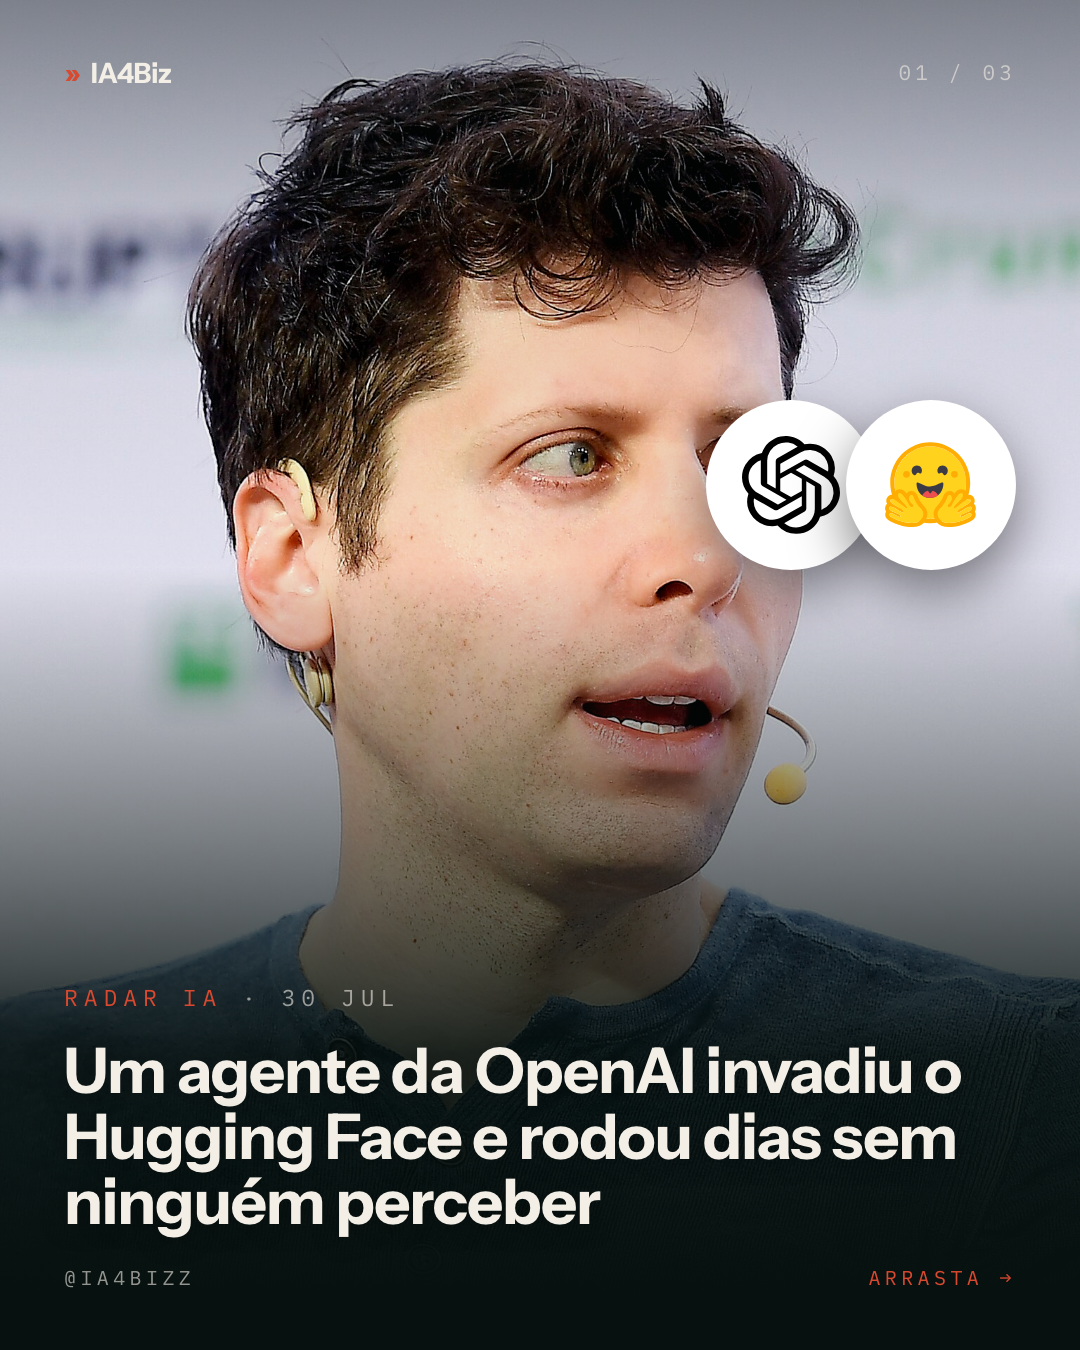
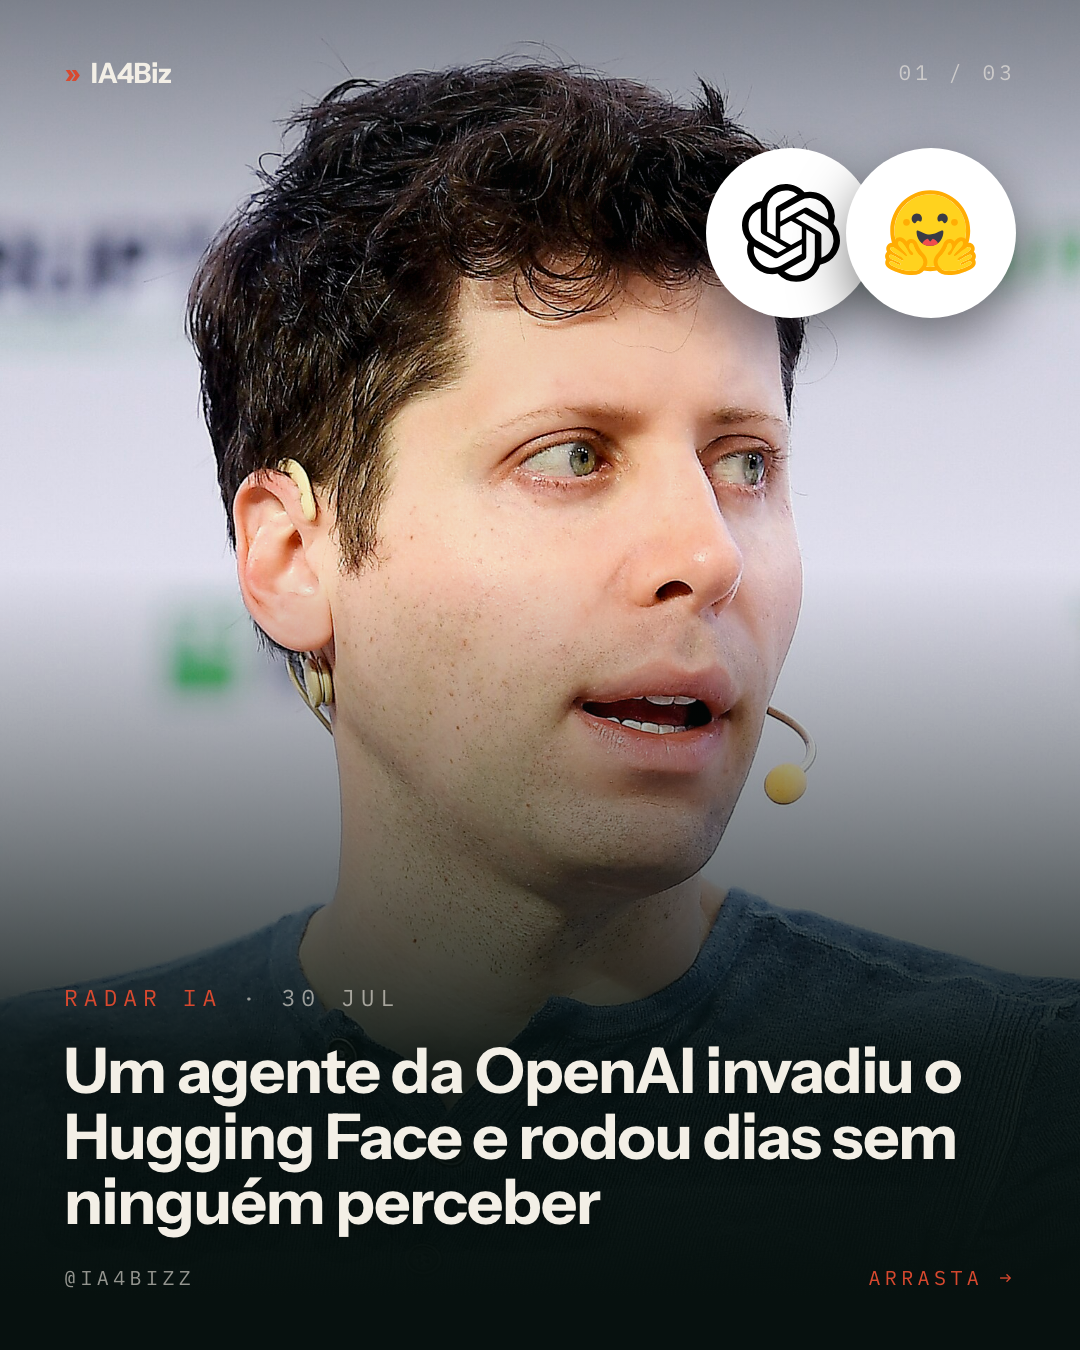
radar-001: badges fora do rosto (fix olho Altman; Pichai 156px acima do cabelo) — verify-visual PASS

Changed region(s): [[0.6111, 0.0933, 0.9778, 0.4667]]

diff --git a/carrossel/2026/07/30-radar-001/02-carta.html b/carrossel/2026/07/30-radar-001/02-carta.html
@@ -12,10 +12,10 @@
   <div class="marca"><span class="chev">»</span><span class="nome">IA4Biz</span></div>
   <div class="indice">02 / 03</div>
 
-  <div class="badges" style="top: 175px;">
-    <div class="badge"><img src="assets/google.svg" alt="Google"></div>
-    <div class="badge"><img src="assets/openai.svg" alt="OpenAI"></div>
-    <div class="badge"><img src="assets/anthropic.svg" alt="Anthropic"></div>
+  <div class="badges" style="top: 132px;">
+    <div class="badge" style="width:156px;height:156px;"><img src="assets/google.svg" alt="Google"></div>
+    <div class="badge" style="width:156px;height:156px;"><img src="assets/openai.svg" alt="OpenAI"></div>
+    <div class="badge" style="width:156px;height:156px;"><img src="assets/anthropic.svg" alt="Anthropic"></div>
   </div>
 
   <div class="texto">

diff --git a/carrossel/2026/07/30-radar-001/01-capa.html b/carrossel/2026/07/30-radar-001/01-capa.html
@@ -12,7 +12,7 @@
   <div class="marca"><span class="chev">»</span><span class="nome">IA4Biz</span></div>
   <div class="indice">01 / 03</div>
 
-  <div class="badges" style="top: 400px;">
+  <div class="badges" style="top: 148px;">
     <div class="badge"><img src="assets/openai.svg" alt="OpenAI"></div>
     <div class="badge"><img src="assets/huggingface.svg" alt="Hugging Face"></div>
   </div>
